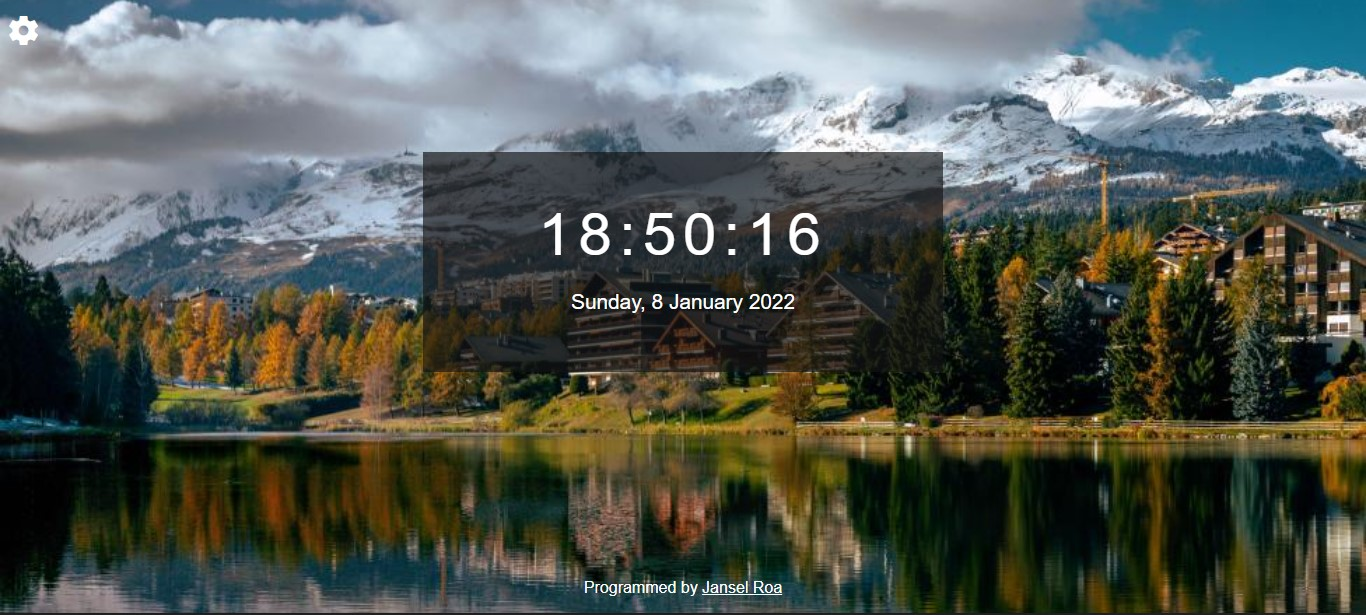
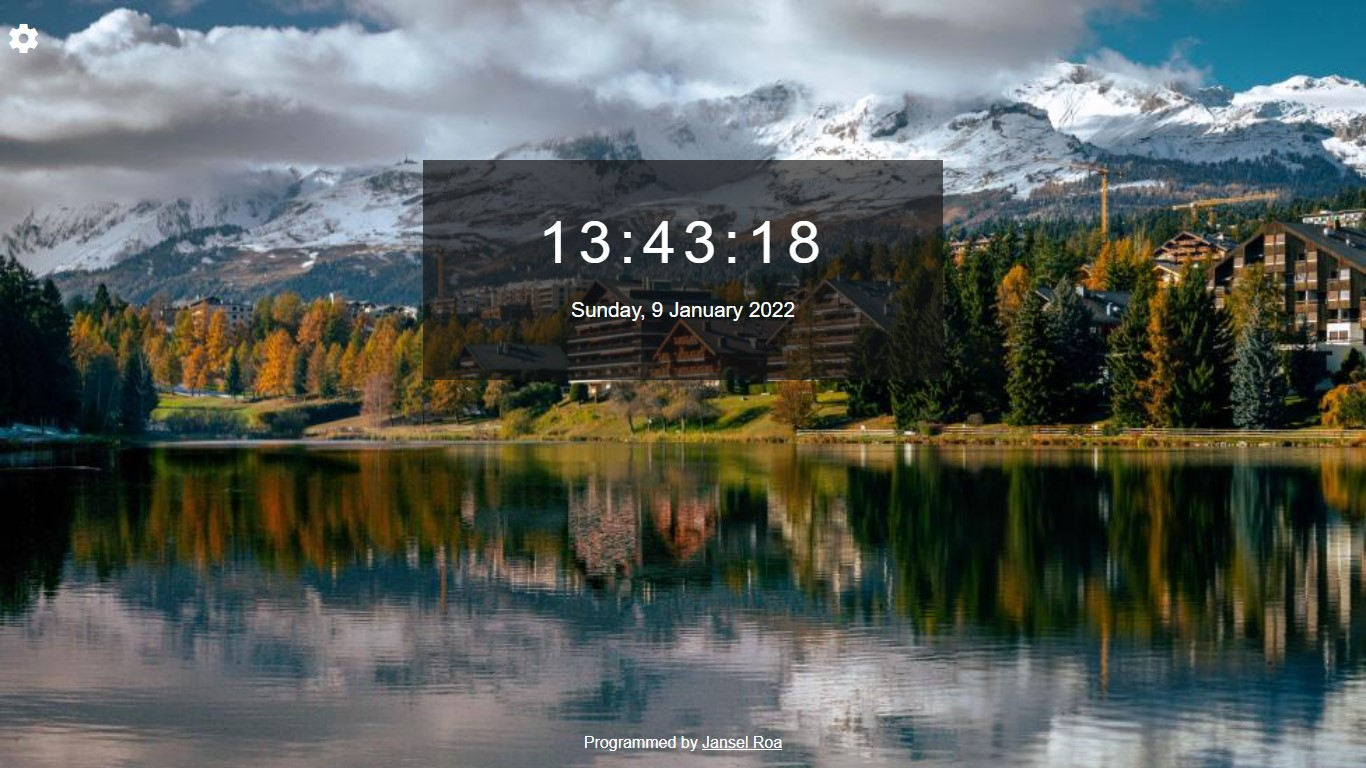
first commit

diff --git a/index.js b/index.js
@@ -18,13 +18,14 @@ settings.addEventListener("click", (e) => {
 })
 
 const daysWeek = [
+    "Sunday",
     "Monday",
     "Tuesday",
     "Wednesday",
     "Thursday",
     "Friday",
-    "Saturday",
-    "Sunday"
+    "Saturday"
+
 ]
 const Months = ["January", "February", "March", "April", "May", "June", "July", "August", "September", "October", "November", "December"]
 setInterval(() => {

diff --git a/README.MD b/README.MD
@@ -1,16 +1,3 @@
 ### Digital clock
-<style>
-div{
-    display:flex;
-    flex-wrap:wrap;
-    width:100%;
-}
-img{
-    width:200px;
-    margin:10px;
-}
-</style>
-<div>
 <img src="./preview.jpg" alt="preview">
 <img src="./preview2.jpg" alt="preview">
-</div>
